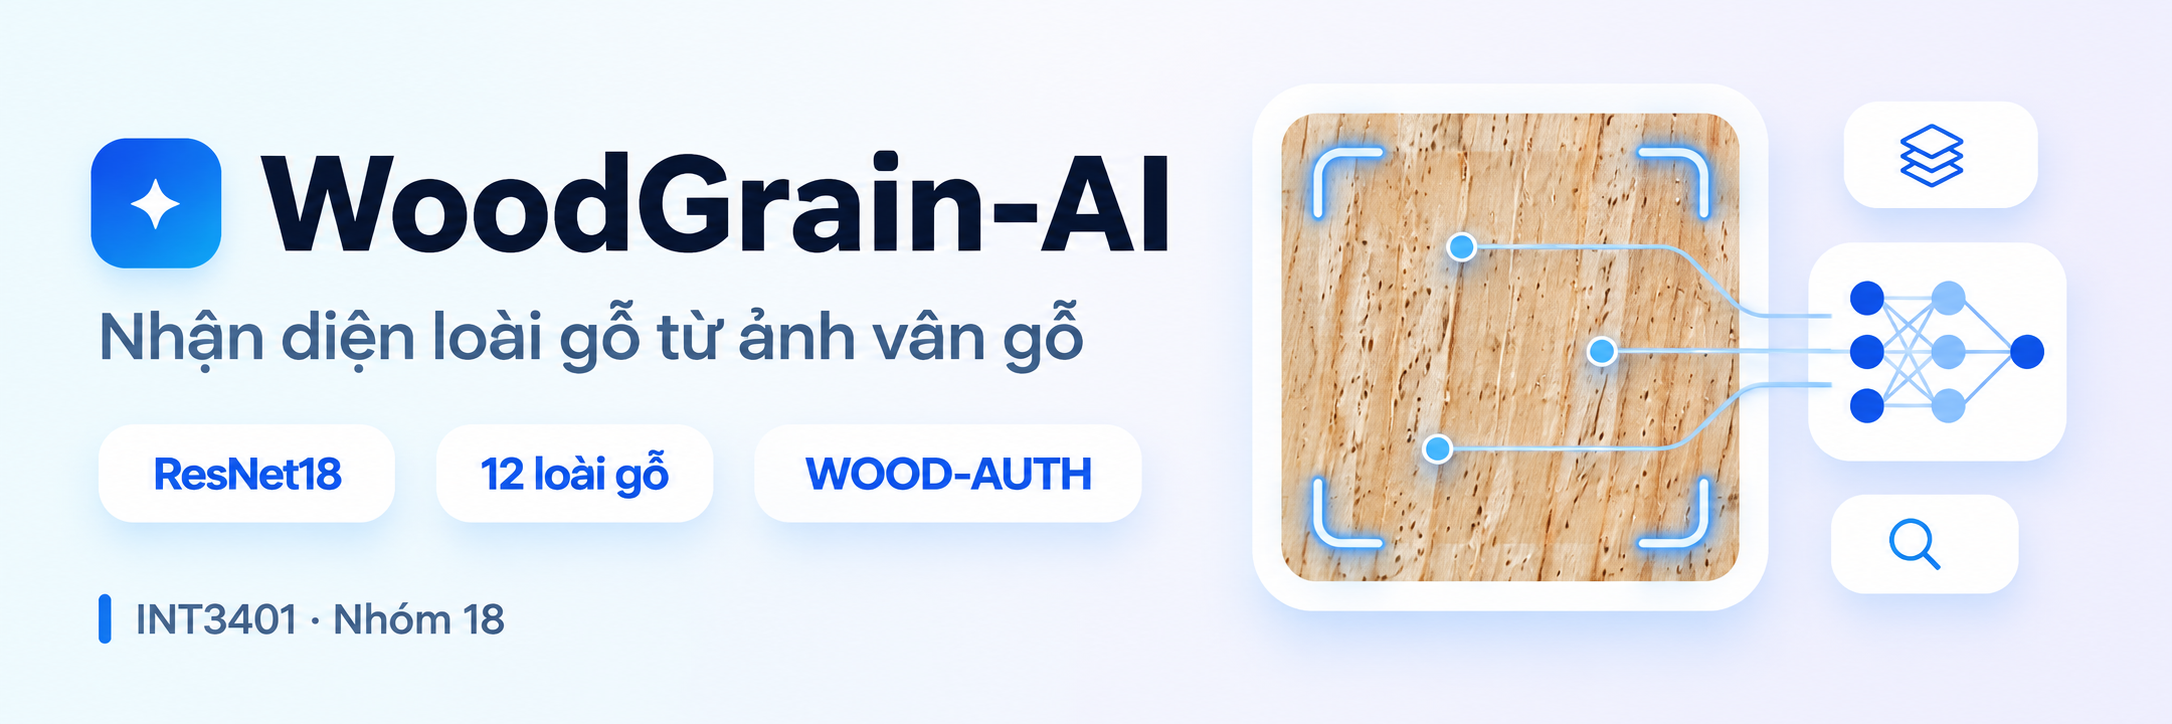
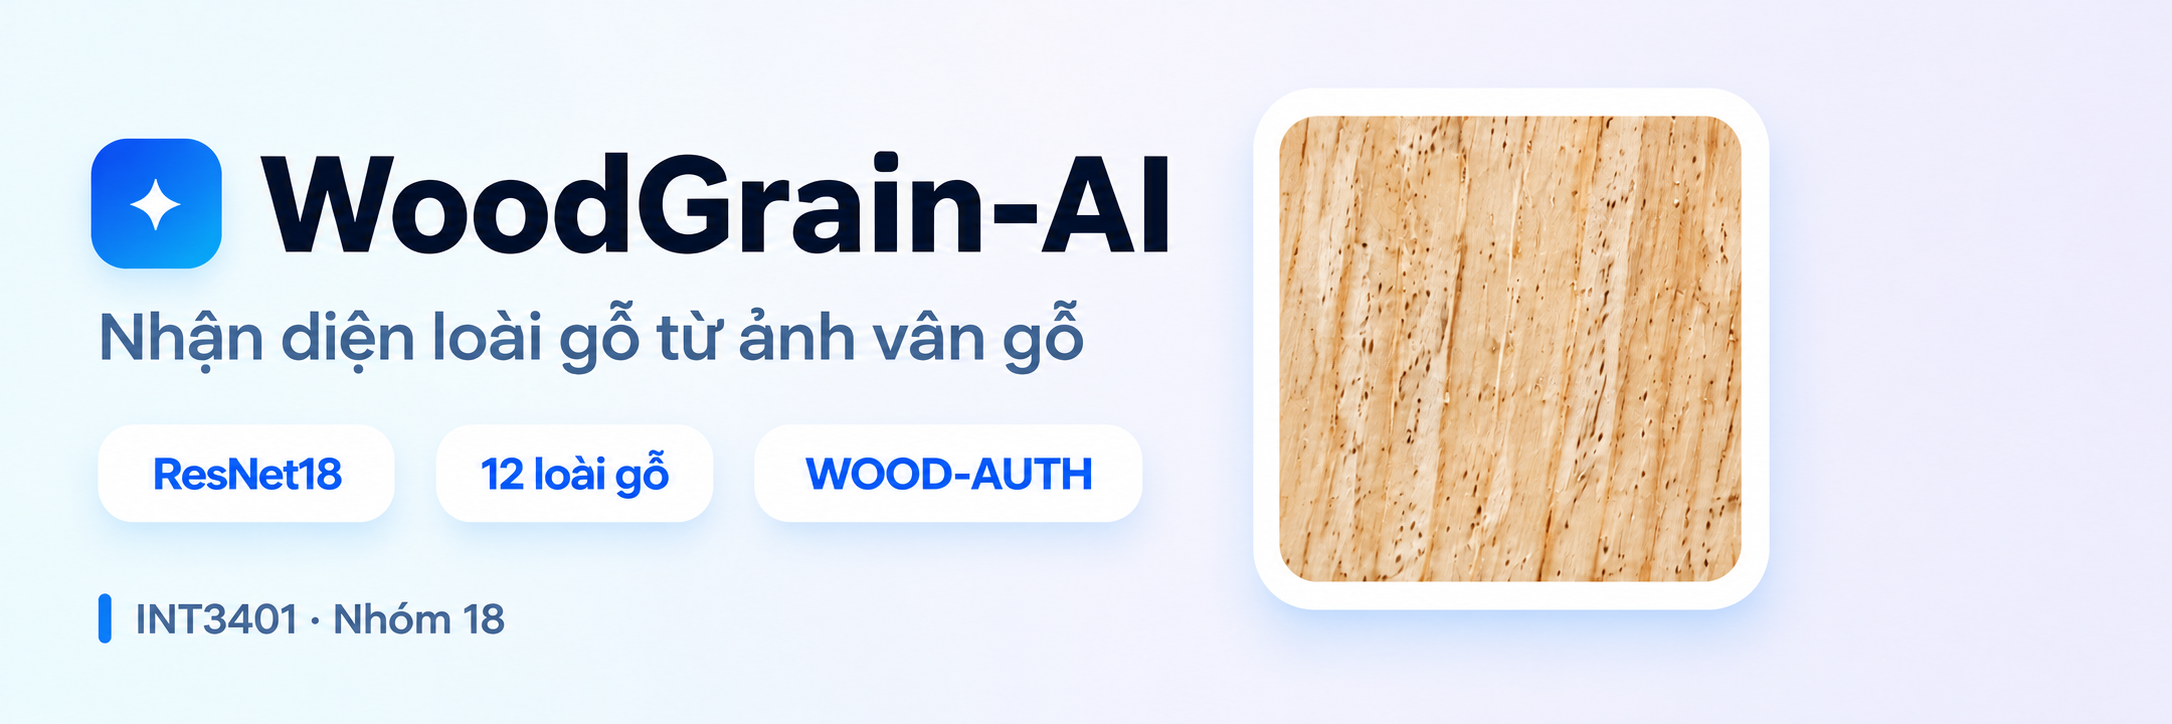
Simplify README cover to a plain wood-grain card

diff --git a/docs/assets/readme-cover-prompt.md b/docs/assets/readme-cover-prompt.md
@@ -3,10 +3,11 @@
 - Tệp: `readme-cover.png`.
 - Tạo bằng công cụ tạo ảnh AI tích hợp trong Codex, ngày 16/11/2026.
 - Tham chiếu phong cách: [giao diện Hugging Face hiện tại của dự án](https://huggingface.co/spaces/AnomalGreatad/wood-grain-classification), được xem trực tiếp khi tạo ảnh.
-- Ảnh vân gỗ và đồ họa mạng là minh họa do AI tạo, không phải mẫu từ dataset, ảnh Grad-CAM hoặc kết quả suy luận thực tế.
+- Ảnh vân gỗ là minh họa do AI tạo, không phải mẫu từ dataset, ảnh Grad-CAM hoặc kết quả suy luận thực tế.
+- Bản hiện tại đã bỏ các khối biểu tượng, đường nối, điểm tròn và góc quét; chỉ giữ ảnh vân gỗ trong khung trắng ở phần minh họa bên phải, theo yêu cầu của người dùng.
 - Nội dung dùng Nhóm 18 theo thông tin nhóm đã xác nhận.
 
-## Prompt đã sử dụng
+## Prompt tạo bản gốc
 
 ```text
 Use case: ads-marketing.
@@ -20,4 +21,14 @@ Subtitle, clear medium size: "Nhận diện loài gỗ từ ảnh vân gỗ"
 Three small tasteful blue-on-white pill labels below the subtitle: "ResNet18" and "12 loài gỗ" and "WOOD-AUTH"
 Small footer line: "INT3401 · Nhóm 18"
 Use sophisticated sans-serif typography matching the screenshot, heavy title and calm readable supporting text. Make the title the visual anchor. No performance statistics, no unverified accuracy percentages, no four-model claims, no fake predictions, no extra text, no stock watermarks, no robots, no people, no trees or forest scenery, no busy circuitry, no dark background. Crisp polished design, subtle visual depth, natural wood texture balanced with minimal scientific blue scan graphics. Opaque background.
+```
+
+## Prompt chỉnh sửa bản hiện tại
+
+```text
+Edit the provided existing README cover banner. Target image is the clean project cover supplied by local file, not the red annotated screenshot.
+Make exactly this simplification on the RIGHT side: remove ALL three small floating white icon cards to the right of the wood photograph (the layers icon card, the neural-network node card, and the magnifying-glass card). Remove ALL connecting blue curves/lines and ALL small circular feature points, including the portions that overlay the wood photograph. Remove the four luminous blue corner scan brackets too, so the right-hand illustration consists ONLY of the natural wood-grain photograph in its simple rounded white frame and its existing soft shadow, with no graphics on the wood.
+Preserve the natural wood texture and rectangular rounded white photo card. Shift this single wood card slightly rightwards so it is visually centered in the freed right-hand region, leaving generous margins and a balanced banner.
+Fill removed areas seamlessly with the same very pale cyan-white-lavender gradient background. Preserve the left side, all existing text, blue title icon, three text pills, typography, colors, scale, footer and overall banner aspect ratio. Preserve these exact strings and Vietnamese diacritics: "WoodGrain-AI"; "Nhận diện loài gỗ từ ảnh vân gỗ"; "ResNet18"; "12 loài gỗ"; "WOOD-AUTH"; "INT3401 · Nhóm 18".
+This is a precise cleanup of the existing artwork, not a redesign. No new symbols, no nodes, no connector lines, no extra decoration, no new text. Keep the opaque background.
 ```
